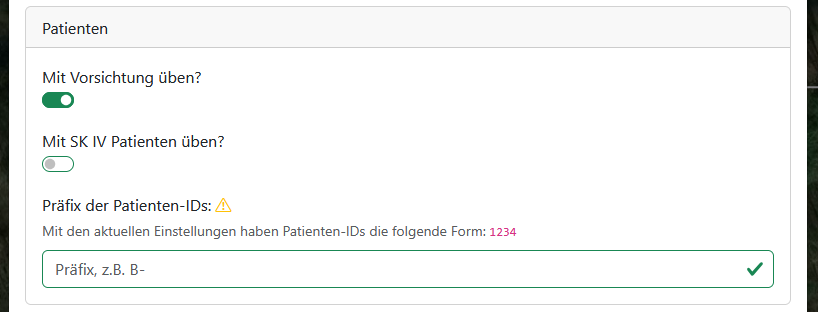
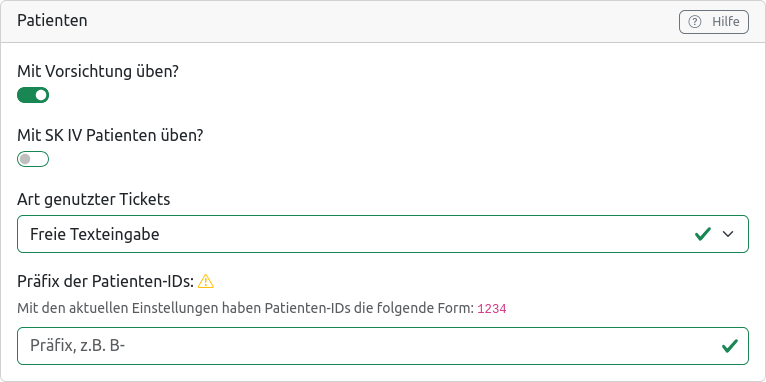
Update CHANGELOG, docs, image licenses

Changed region(s): [[0.0, 0.0, 1.0, 1.0]]

diff --git a/docs/src/2_exercises/3_exercise_elements.md b/docs/src/2_exercises/3_exercise_elements.md
@@ -144,7 +144,7 @@ Die Behandlung von Patienten ist die zentrale Herausforderung in einer MANV-Lage
 
 Übungsleitende können Patienten aus dem Editor heraus auf der Karte platzieren. Sowohl Übungsleitende als auch Teilnehmende können Patienten per Drag-and-Drop auf der Karte verschieben.
 
-Das Patientensymbol auf der Karte zeigt, ob ein Patient gehfähig ist (stehendes Icon) oder nicht (liegendes Icon). Zusätzlich zeigt ein Punkt in der Mitte die aktuelle Sichtungsfarbe an. Wenn [Personal und Material](#fahrzeuge-mit-personal-und-material) neben einen Patienten geschoben werden, erscheinen Verbindungslinien, die anzeigen, welches medizinische Personal welchen Patienten aktuell behandelt.
+Das Patientensymbol auf der Karte zeigt, ob ein Patient gehfähig ist (stehendes Icon) oder nicht (liegendes Icon). Zusätzlich zeigt ein Punkt in der Mitte die aktuelle Sichtungsfarbe an. Wenn [Personal und Material](#fahrzeuge-mit-personal-und-material) neben einen Patienten geschoben werden, erscheinen Verbindungslinien, die anzeigen, welches medizinische Personal welchen Patienten aktuell behandelt. Wurde dem Patienten ein Ticket zugewiesen, wird dies über ein Ticket-Symbol über dem Patienten dargestellt.
 
 Teilnehmende sehen, wenn sie Patienten anklicken, ein Pop-up mit der Patienten-ID und dem Sichtungsstatus in der Überschrift sowie vier Tabs für den Inhalt. Im Tab <kbd>Allgemein</kbd> sind die Stammdaten (ID, Name, Alter, Geschlecht, Anschrift, Biometrie) sowie ein Feld für Anmerkungen zu finden, das durch die Teilnehmenden ausgefüllt werden kann. Im Tab <kbd>Vorsichtung</kbd> sind medizinische Informationen sowie ein Auswahlmenü zu finden, in dem eine Sichtungskategorie ausgewählt und Patienten als Transportpriorität markiert werden können. Im Tab <kbd>QR-Code</kbd> ist ein QR-Code zu sehen, der standardmäßig die Patienten-ID repräsentiert. Der als QR-Code angezeigte Text kann manuell überschrieben werden. Im Tab <kbd>Erkundung</kbd> können Übungsleitende zusätzliche Informationen hinterlegen, die Teilnehmende dann während der Übung aufrufen können. Die Patienten erhalten dann ein zusätzliches Sprechblasen-Symbol, welches das Vorhandensein von Erkundungsinformationen kennzeichnet. Siehe [Erkundungselemente](#erkundungselemente) für Details.
 
@@ -174,6 +174,8 @@ Patienten können während der laufenden Übung auch von Teilnehmenden verschobe
 ![Vorsichtung eines Patienten im Popup](./exercise_elements_patient_pretriage.png)
 
 Die medizinischen Details und das manuelle Auswählen einer Sichtungsfarbe durch Teilnehmende im Tab <kbd>Vorsichtung</kbd> ermöglichen, dass Teilnehmende die Besatzung eines ersteintreffenden Rettungsmittels spielen und entsprechend die Vorsicht übernehmen müssen. Sobald weitere Kräfte eintreffen, sollten die Teilnehmenden allerdings die Rolle einer Führungskraft einnehmen und die unterstellten Einsatzkräfte vorsichten lassen. Dazu muss, wie bei der medizinischen Behandlung, das entsprechende Personal neben die Patienten geschoben werden, bis eine Verbindungslinie erscheint. Pro Patient wird eine Minute zur Vorsichtung benötigt.
+
+Ebenso kann im Tab <kbd>Vorsichtung</kbd> jedem Patienten ein Ticket zugewiesen werden. Diese Zuweisung dient ausschließlich dazu, Patienten mit Ticket auf der Karte optisch unterscheiden zu können, wie wenn ein Ticket auf eine physische Patientenanhängekarte geklebt wurde. Darüber hinaus hat die Zuweisung eines Tickets keine Funktion, insbesondere können Patienten unabhängig davon, ob ein, und wenn ja, welches Ticket zugewiesen wurde, in jedes erreichbare Krankenhaus transportiert werden. Die Art der Ticket-Zuweisung kann in den [Übungseinstellungen](1_general.html#patienten) festgelegt werden.
 
 ## Technische Herausforderungen
 

diff --git a/docs/src/2_exercises/1_general.md b/docs/src/2_exercises/1_general.md
@@ -169,6 +169,12 @@ Mit der Einstellung <kbd>**Mit Vorsichtung üben?**</kbd> wird das Vorsichten vo
 
 Die Einstellung <kbd>**Mit SK IV Patienten üben?**</kbd> regelt, ob die SK IV (blau) verfügbar ist. Wenn sie deaktiviert ist, wird die Sichtungskategorie SK IV (blau) dort, wo sie gesetzt ist, durch SK I (rot) ersetzt.
 
+Die <kbd>**Art genutzter Tickets**</kbd> konfiguriert, welche Arten von [Tickets](3_exercise_elements.html#nutzung-in-übungen-4) Patienten zugewiesen werden können. Dabei gibt es folgende Möglichkeiten:
+
+- <kbd>Keine Tickets</kbd>: Das Ticketsystem ist deaktiviert. Es können keine Tickets zu Patienten zugewiesen werden und zugewiesene Tickets werden nicht angezeigt. Durch das Deaktivieren gehen keine bereits zugewiesenen Tickets verloren; wird das Ticketsystem wieder aktiviert, sind bereits zugewiesene Tickets wieder sichtbar.
+- <kbd>Freie Texteingabe</kbd>: Als Ticket kann ein beliebiger Text eingegeben werden, zum Beispiel der Name einen Krankenhauses oder eine Ticket-ID
+- <kbd>Extern zugewiesene Tickets</kbd>: Die Zuweisung der Tickets geschieht in einer beliebigen, von der FüSim Digital unabhängigen Liste oder Software gemäß des lokalen Übungs- oder Einsatzkonzepts. In der FüSim Digital kann bei jedem Patienten ein Haken gesetzt werden, um zu markieren, dass dieser bereits ein Ticket erhalten hat. Somit wird auch in der FüSim das Ticket-Symbol für den Patienten angezeigt, ohne dass alle Details des Tickets in beiden Systemen eingetragen werden müssen.
+
 Im Feld <kbd>**Präfix der Patienten-IDs**</kbd> kann ein Präfix eingegeben werden, das allen Patienten-IDs in der Übung vorangestellt wird. Mit dieser Einstellung lassen sich Patienten-IDs an ein ortsübliches Schema anpassen, z.B. indem das Ortskennzeichen (z.B. `B-`) vorangestellt wird. Die eigentlichen IDs (der Teil hinter dem Präfix) sind eine bei `0001` beginnende Zahl, die mit vier Ziffern dargestellt wird.
 
 > [!WARNING]

diff --git a/CHANGELOG.md b/CHANGELOG.md
@@ -7,6 +7,10 @@ and this project does **not** adhere to [Semantic Versioning](https://semver.org
 
 ## [Unreleased]
 
+### Added
+
+- A simple ticket system allows tickets to be assigned to patients. A patient who has a ticket assigned shows a ticket icon above them on the map. Tickets do not affect the exercise logic (i.e., patients can be loaded into vehicles and sent to hospitals regardless of their ticket status).
+
 ## [1.0.0-rc.1] - 2026-07-28
 
 ### Added

diff --git a/frontend/src/assets/LICENSES-IMAGES.md b/frontend/src/assets/LICENSES-IMAGES.md
@@ -85,3 +85,7 @@ License: [MIT](https://github.com/twbs/icons/blob/main/LICENSE)
 [blue_car_burned_out.png](blue_car_burned_out.png)
 Felix Koch, based on <https://illustoon.com/?dl=9476> and <https://illustoon.com/?id=2723> by [DESIGNALIKE](https://illustoon.com)
 License: CC0 1.0
+
+[ticket.svg](ticket.svg):  
+<https://icons.getbootstrap.com/icons/ticket-perforated/> (edited)  
+License: [MIT](https://github.com/twbs/icons/blob/main/LICENSE)
